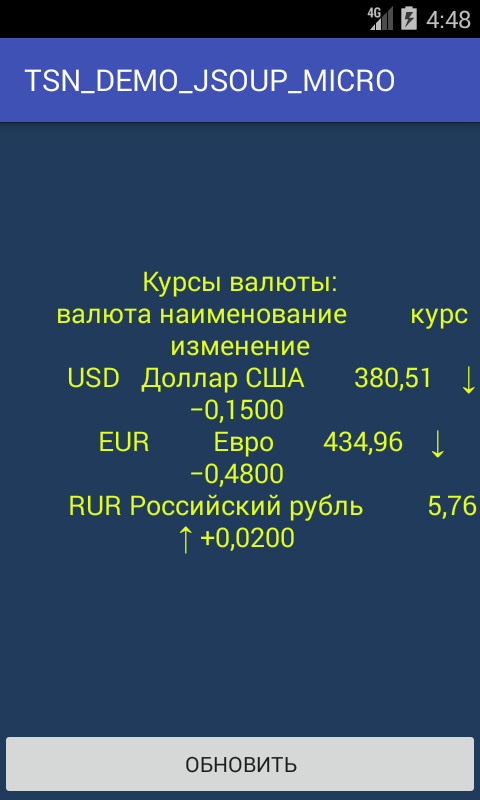
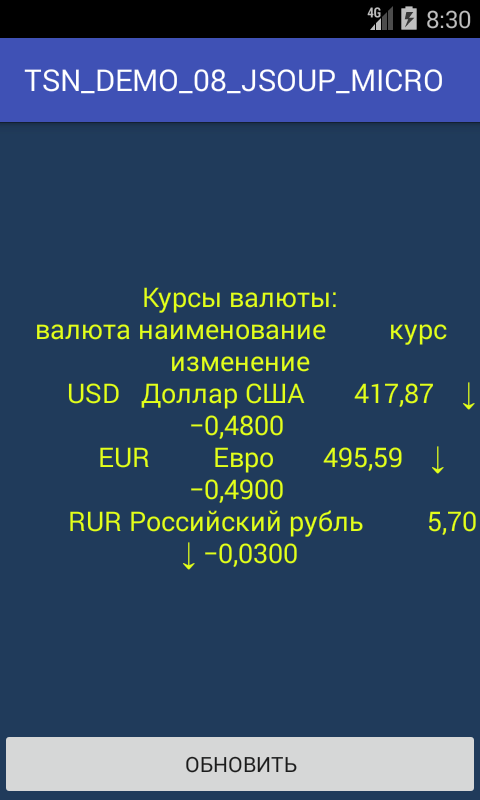
update

diff --git a/README.md b/README.md
@@ -5,8 +5,10 @@ _Пример работы с JSOUP (курсы валют):_
 
 ![Screenshot](screenshot.png)
 
-![Screenshot](jsoup1.png)
+![Screenshot](jsoup1.jpg)
 
-![Screenshot](jsoup2.png)
+![Screenshot](jsoup2.jpg)
 
 ![Screenshot](jsoup3.jpg)
+
+https://youtu.be/Zp6ohixq1wY

diff --git a/TSN_DEMO_08_JSOUP_MICRO/README.md b/TSN_DEMO_08_JSOUP_MICRO/README.md
@@ -2,8 +2,8 @@
 Пример работы с JSOUP
 ![Screenshot](screenshot1.png)
 
-![Screenshot](jsoup1.png)
+![Screenshot](jsoup1.jpg)
 
-![Screenshot](jsoup2.png)
+![Screenshot](jsoup2.jpg)
 
 ![Screenshot](jsoup3.jpg)

diff --git a/TSN_DEMO_08_JSOUP_Rates/README.md b/TSN_DEMO_08_JSOUP_Rates/README.md
@@ -3,8 +3,8 @@
 
 ![Screenshot](screenshot2.png)
 
-![Screenshot](jsoup1.png)
+![Screenshot](jsoup1.jpg)
 
-![Screenshot](jsoup2.png)
+![Screenshot](jsoup2.jpg)
 
 ![Screenshot](jsoup3.jpg)
